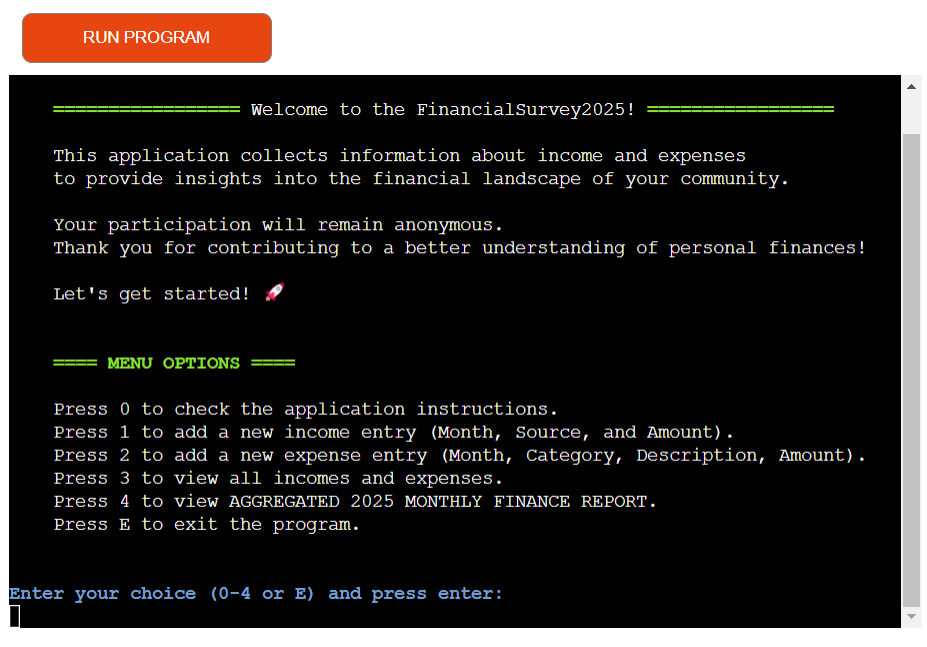
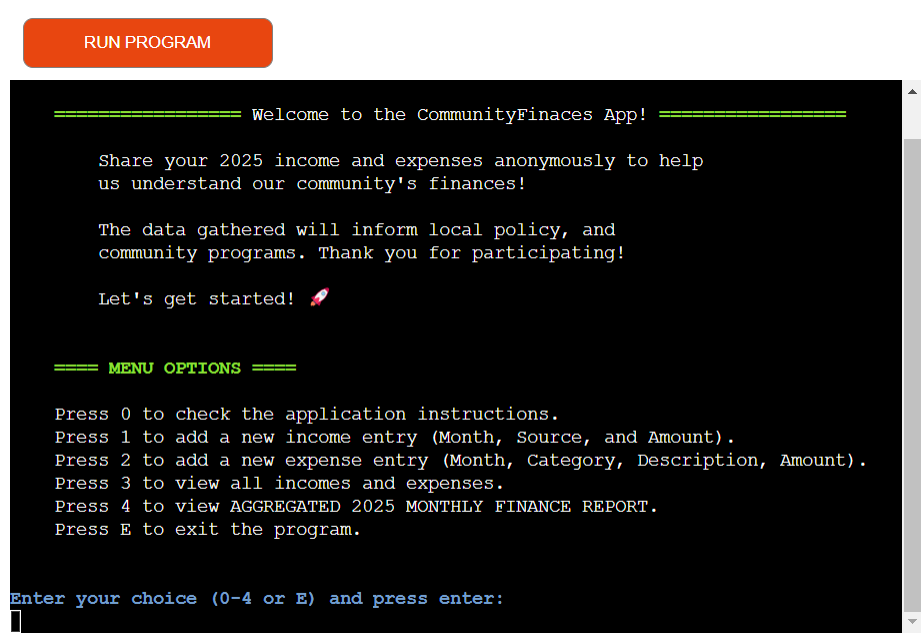
Update exit message with data usage info for financial trend reports

diff --git a/run.py b/run.py
@@ -47,7 +47,11 @@ def exit_program():
     exit_message = f"""
     {Fore.GREEN + Style.BRIGHT}
     ✨ Thank you for your contribution! ✨
-     We will keep you informed about the impact of your input!
+
+     We'll be using it to analyze key financial trends and will publish
+     monthly reports summarizing our findings.
+
+     Stay tuned for updates! 📈🔔
     """
     print(exit_message)
     exit()
@@ -96,7 +100,7 @@ def show_application_instructions():
     {Fore.GREEN + Style.BRIGHT}==== APPLICATION INSTRUCTIONS ====
     {Style.RESET_ALL}
 
-    Welcome to the FinancialSurvey2025!! App instructions:
+    Welcome to the CommunityFinaces App. Below the instructions:
 
     {Fore.BLUE} 1. Add New Income:{Style.RESET_ALL}
 
@@ -145,12 +149,12 @@ def show_application_instructions():
 
     {Fore.BLUE} 3. Display All Income and Expenses:{Style.RESET_ALL}
 
-       - This option displays all 2025 survey responses.
+       - This option displays all data entered for 2025.
        - It shows the data in a tabular format.
 
     {Fore.BLUE} 4. View AGGREGATED 2025 MONTHLY FINANCE REPORT{Style.RESET_ALL}
 
-       - Select a month to view the aggregated 2025 financial survey data.
+       - Select a month to view the aggregated 2025 financial data.
          E.g., January, February.
        - The 2025 report will display:
          → Aggregate total Income for the selected month.

diff --git a/README.md b/README.md
@@ -1,13 +1,13 @@
-# My Financial Survey 2025!
+# The 2025 Community Finances App!
 
 (Developer: Gabriela Fabiola Paredes Rojas)
 
 ![Mockup image](documentation/website-screenshots/1-mockup.png)
 
-**Welcome to the FinancialSurvey2025!**
+**Welcome to the CommunityFinaces App!**
 
-    This application collects information about income and expenses
-    to provide insights into the financial landscape of your community!
+    This application collects information about 2025
+    income and expenses to provide insights into the financial landscape of your community!
 
     Your participation will remain anonymous.
     Thank you for contributing to a better understanding of personal finances!
@@ -21,28 +21,29 @@
 
 ### User Goals
 
-+ Contribute anonymously to a community-wide financial survey for the year 2025.
++ Contribute anonymously to a community-wide financial data collection for the year 2025.
 + Provide income and expense data to help understand the financial landscape of a community.
++ See how their income and expenses relate to the broader community trends.
 + Easily input financial information with clear instructions and data validation.
-+ Be assured of their anonymity throughout the process.
 + Explore aggregated monthly reports to identify community-wide income and expense trends and gain insights into financial development.
 
 ### Site Owner Goals
 
-+ Collect comprehensive and representative financial data from the community for the year 2025.
-+ Generate accurate and insightful aggregated monthly financial reports.
++ Collect comprehensive and representative financial data from the community for the year 2025 to provide meaningful insights into the community's financial landscape.
++ Generate accurate and insightful insights.
 + Identify key trends and patterns in community income and expenses.
-+ Ensure the anonymity of survey participants.
-+ Potentially publish or share key findings to benefit the community.
-  
++ Ensure the anonymity of the participants.
++ Make the data entry process as easy and accessible as possible.
++ Use the application as a tools for community building. For example, raise awareness about local financial issues.
+ 
 ---
 ## User Experience
 
 ### Target audience
 
-+ **Any community residents:** For example, a neighborhood, town, city, country, etc.
++ **Any community residents:** The target audience for this application is broad, encompassing residents of a community who are willing to share their income and expense information anonymously.  
 
-+ **Researchers and Academics:** The generated report (collected survey data)y may provide valuable data for economic research, particularly regarding consumer behavior, spending patterns, and income distribution.
++ **Researchers and Academics:** The generated report (collected survey data) could provide valuable data for economic research, particularly regarding consumer behavior, spending patterns, and income distribution.
 
 + **Government Agencies:** The generated report can be used by government agencies for policy development, economic analysis, and program planning. A local survey might inform local government decisions.
 
@@ -56,25 +57,7 @@
 + Correctly store and display income and expense entries.
 + The aggregated 2025 monthly finance report must correctly calculate and display aggregated total income, aggregated total expenses, net financial balance, expenses per category, and the highest expense of the group/community.
 + The application must warn the user of any invalid input.
-+ Have a strong expectation that their data will remain anonymous.
-
-**Regarding the Data Collection Process:**
-
-
-* **Clear Purpose:** They want to understand why their data is being collected and how it will be used to benefit the community. A clear explanation of the project's goals and objectives is important.
-* **Data Validation:** They expect the system to have some level of data validation to ensure accuracy and consistency. This might include checks for valid number formats, reasonable ranges for income and expenses, and clear error messages.
-
-
-**Regarding the Project Outcomes:**
-
-* **Community Benefit:** They expect that the project will ultimately benefit the community in some way. This might include informing local policy decisions, attracting businesses, or improving community services.
-* **Transparency of Results:** They expect the aggregated results of the project to be made available to the public in a clear and understandable format. They want to see how their contributions have helped to paint a picture of the community's financial health.
-* **No Individual Identification:** They absolutely expect that their individual data will *not* be identifiable in any of the reports or published findings. Anonymity or aggregation of data is paramount.
-* **Actionable Insights:** They hope that the data collected will lead to actionable insights and positive changes in the community. They want their participation to make a difference.
-* **Responsible Data Handling:** They expect the project organizers to handle the data responsibly and ethically. This includes using the data only for the stated purposes, protecting privacy, and ensuring data security.
-* **Project Completion:** They expect the project to be completed and the results to be shared within a reasonable timeframe.
-
-In short, users expect a smooth, secure, and meaningful experience when participating in a community financial data collection initiative. They want to contribute to the greater good while being assured that their privacy is protected and that their data will be used responsibly.
++ Be assured of their anonymity throughout the process.
 
 ### User stories
 
@@ -83,26 +66,50 @@ In short, users expect a smooth, secure, and meaningful experience when particip
   + Quickly understand the purpose of the application.
   + Have clarity in the menu options so I can find easily desired functions.
   + Have clear and easy to follow application instructions.
-  + Have my results displayed clearly and concisely, using appropriate formatting and labels for easy interpretation.
-  + Have a enjoyable experience without delays or glitches or errors.
+  + Have results displayed clearly and concisely, using appropriate formatting and labels for easy interpretation.
+  + Have an enjoyable experience without delays or glitches or errors.
   + Have an application that is visually appealing to enhance the user experience.
 
 + **As a returning user, I want to:**
 
   + Be able to quickly complete common tasks (e.g., adding income, adding expenses, generating a report), leveraging the past experience with the program.
   + The application's interface and core functionality to remain unchanged from the previous version I used, except for explicitly documented updates.
-  + Have my financial data available to me within seconds, if I select to have it displayed.
-  + Accomplish their tasks quickly and easily, 
-  + Expect their data to be readily accessible.
-  + Have an application that continues to provide value and help them monitor their finances effectively.
-  + Continue having the same core financial tracking features (e.g., income/expense tracking, reporting), allowing me to monitor my finances with the same level of detail as before.
+  + Have the collective financial data available to me within seconds, if I select to have it displayed.
+  + Get an update on how my contribution will benefit the community.
 
 + **As the site ownser, I want:**
 
-  + Regularly update the website with new menu options and features (e.g., monthly, quarterly, yearly reports) to maintain user engagement.
-  + Ensure a smooth and accessible user experience by regularly testing the website on different devices and browsers and addressing any reported accessibility issues within.
+  + Regularly update content and features (e.g., monthly, quarterly, yearly reports) to maintain user engagement.
+  + Provide to the community monthly reports summarizing key financial trends observed in the collected data.
+  + Ensure a smooth and accessible user experience by regularly testing the site on different devices and browsers and addressing any reported accessibility issues within.
   + To keep the application running correctly, be free of bugs, and not crash.
-  + Collect user feedback to understand user needs and identify areas for improvement.
+  + Collect and review user feedback to understand user needs and identify areas for improvement.
+
+
+  * **Regularly update content and features:**
+    * 
+    * Release quarterly updates with more in-depth analysis and visualizations.
+    * Explore and implement new features (e.g., interactive data exploration tools, comparison features) on a yearly basis.  
+    * Announce all updates and new features via [mention how you'll communicate - e.g. a blog, email list, social media].
+
+* **Ensure a smooth and accessible user experience:**
+    * Conduct cross-browser and cross-device testing (desktop, mobile, tablet) at least quarterly.
+    * Address any reported accessibility issues (WCAG compliance) within [define timeframe - e.g. two weeks].
+    * Monitor site performance metrics (e.g., page load times, error rates) weekly and address any performance bottlenecks promptly.
+
+* **Maintain application stability and security:**
+    * Implement robust error handling and logging to minimize crashes and facilitate debugging.
+    * Conduct regular security audits and penetration testing [define frequency, e.g. annually or after major updates].
+    * Implement and enforce strong data security measures to protect user anonymity and prevent data breaches.
+    * Ensure 99.9% uptime for the application.
+
+
+
+
+* **Demonstrate community impact:**
+    * Publish reports and case studies showcasing how the collected data has been used to inform local decisions and improve community outcomes.
+    * Share these reports with the community through [mention channels - e.g., website, social media, local news outlets].
+
 
 ---
 ## Features 
